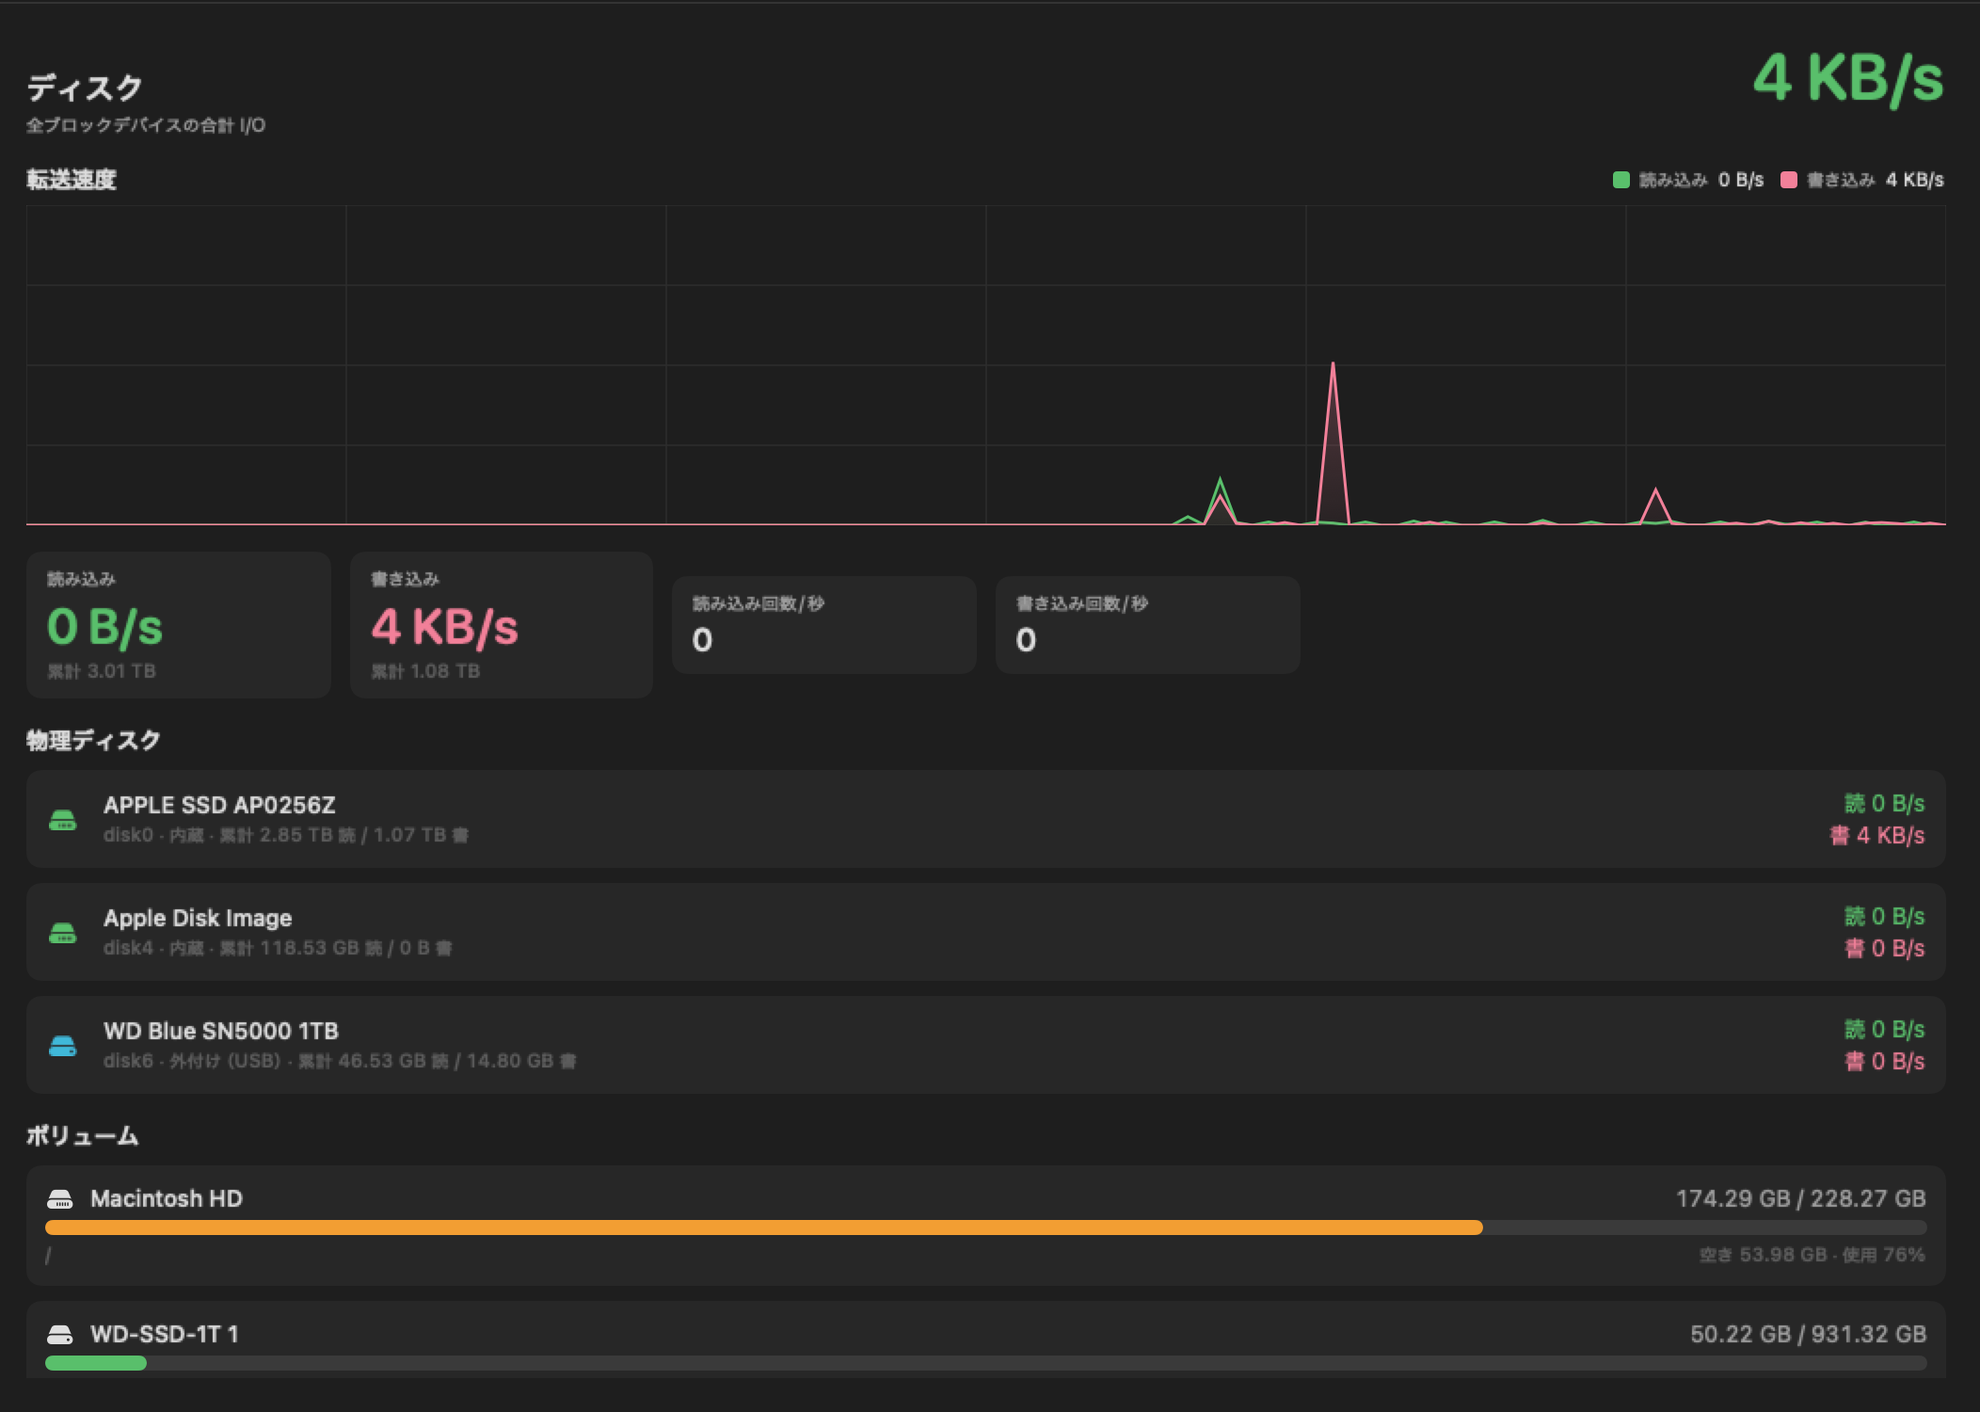
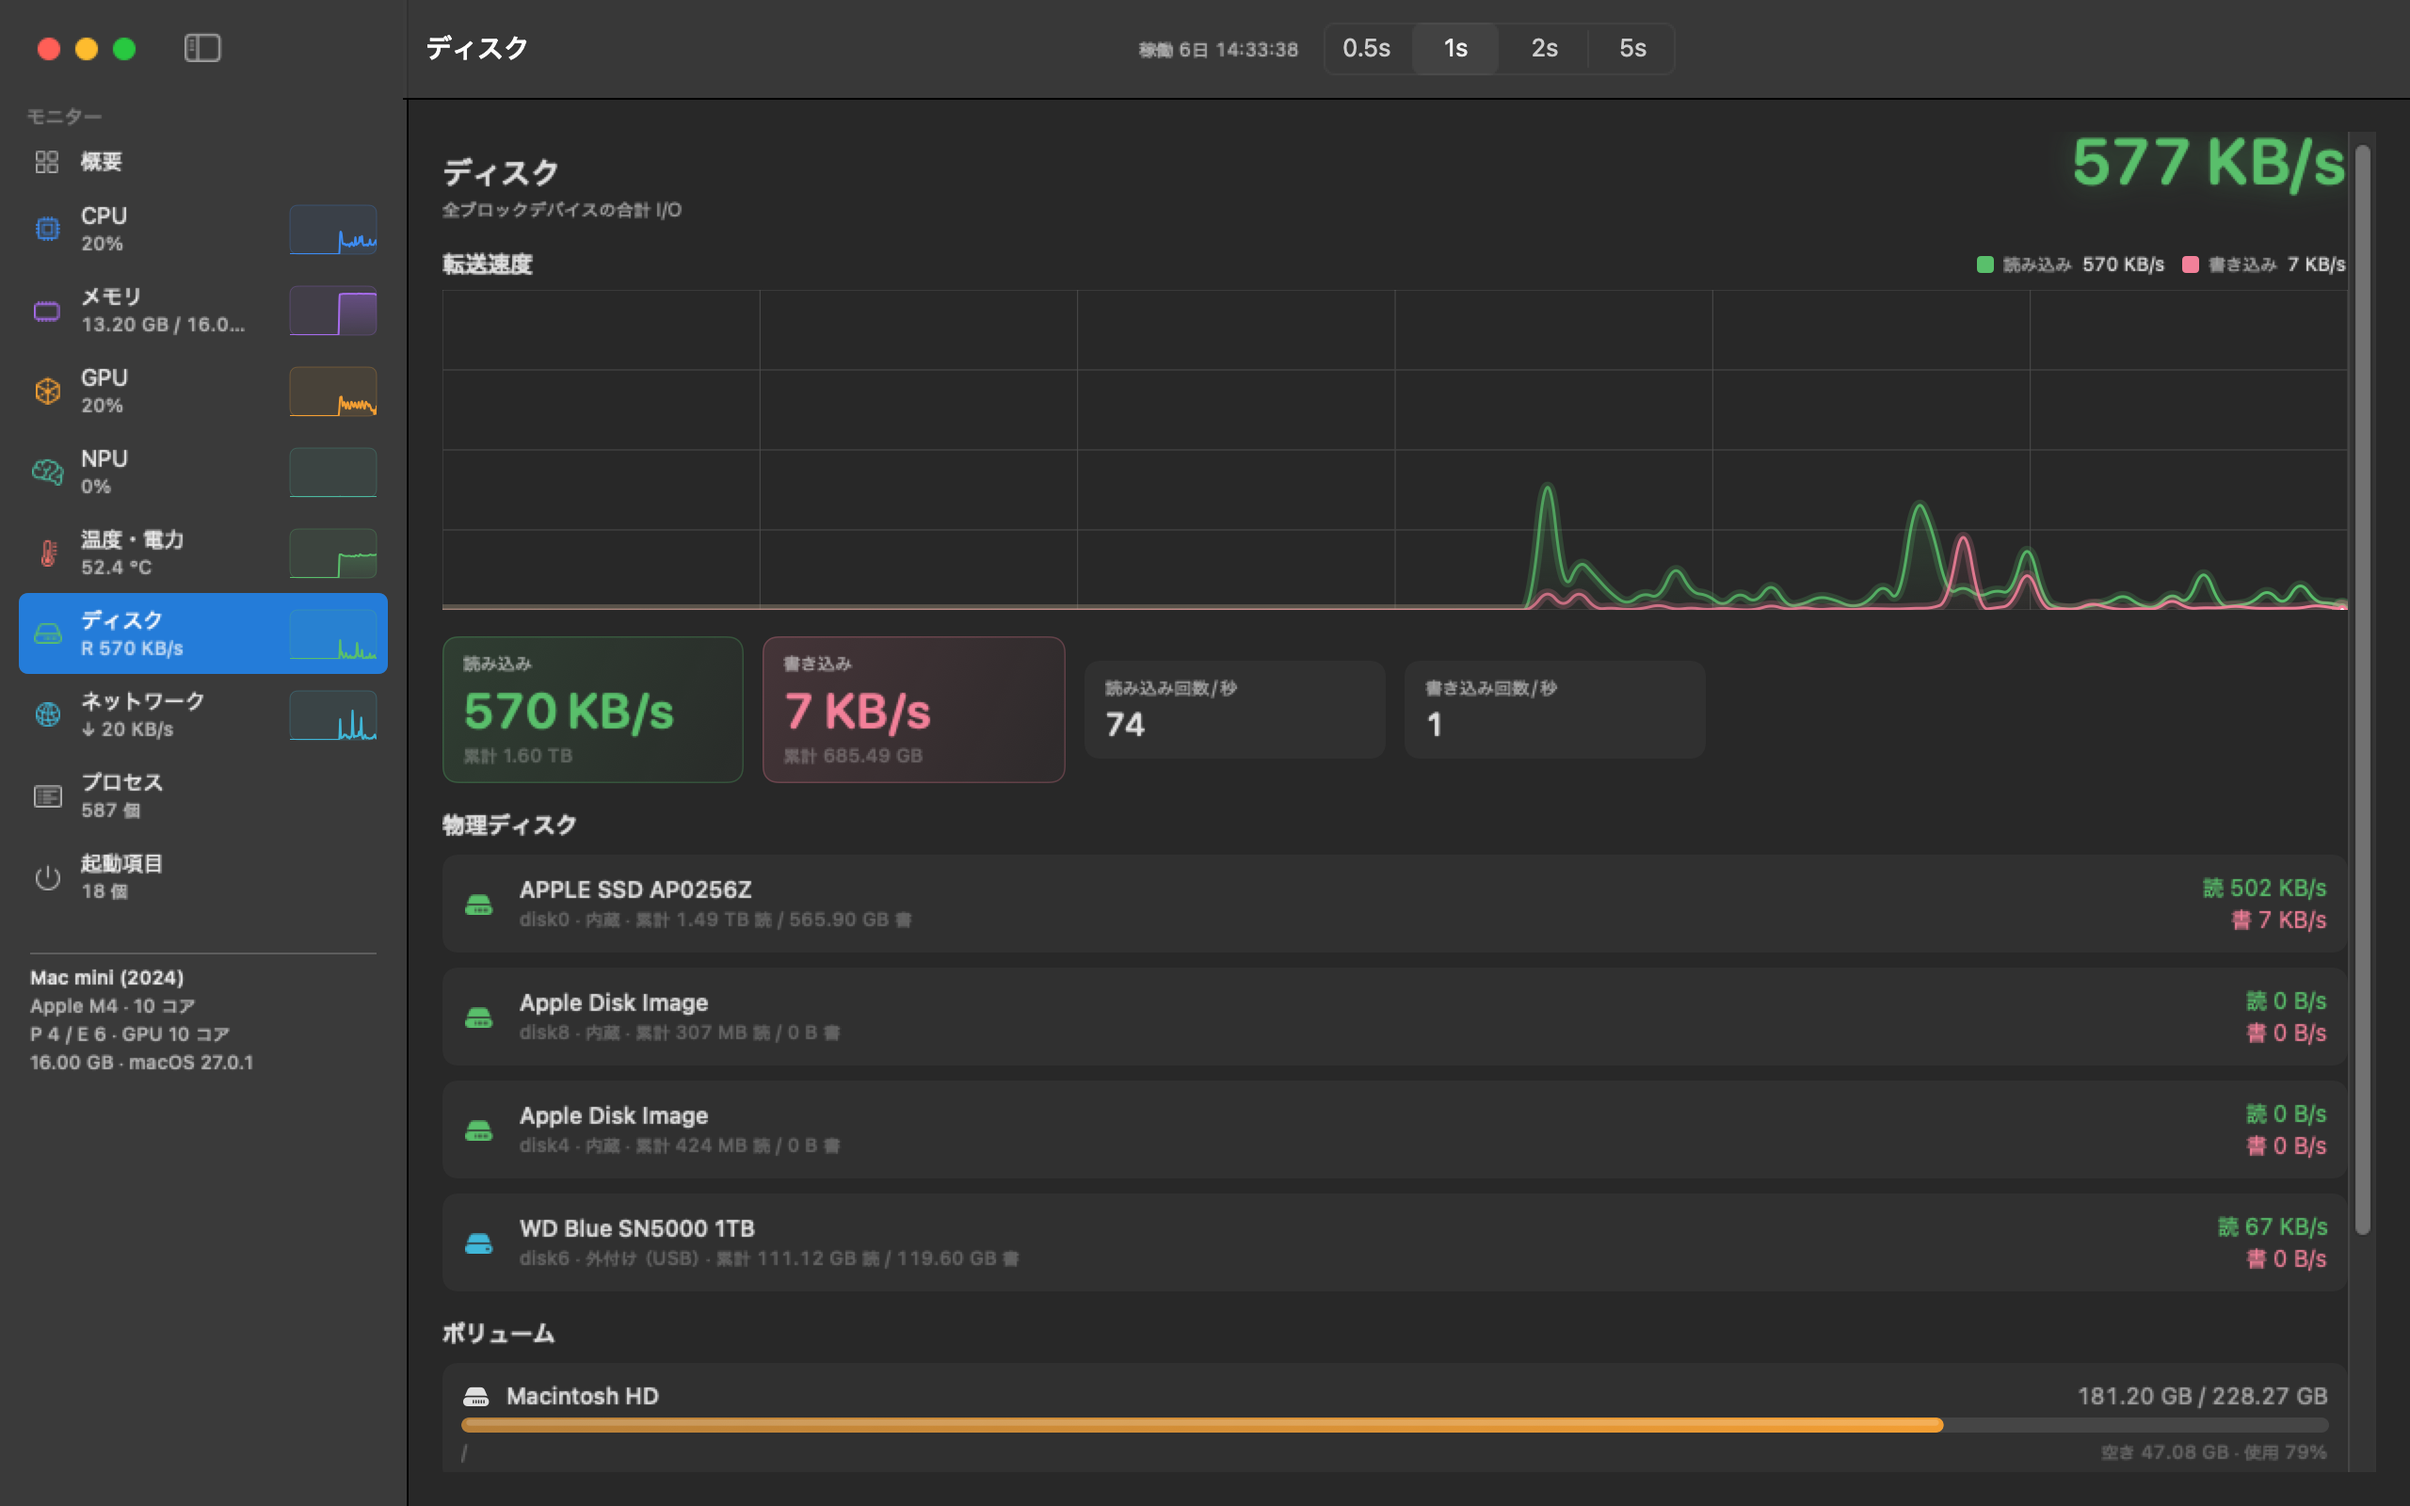
README の画面写真を撮り直す
デバイスのバッテリーのカードと NPU 画面を含む最新の表示に差し替える。
書き出しの 1 枚目は、利用者の設定にかかわらずグラフ表示で撮るようにした。
プロセス・メモリ・起動項目の画面は使っているアプリや個人の環境が写るため差し替えない。

Changed region(s): [[0.0, 0.0, 1.0, 1.0], [0.1854, 0.92, 0.9886, 0.9813]]

diff --git a/Sources/MacTaskManager/ScreenshotExporter.swift b/Sources/MacTaskManager/ScreenshotExporter.swift
@@ -48,6 +48,11 @@ enum ScreenshotExporter {
             await engine.refreshProcessesNow()
             await engine.refreshStartupNow()
 
+            // 利用者がメーター表示を選んでいても、各画面の 1 枚目はグラフ表示で撮る。
+            let defaults = UserDefaults.standard
+            let savedStyle = defaults.string(forKey: OverviewStyle.storageKey)
+            defaults.set(OverviewStyle.chart.rawValue, forKey: OverviewStyle.storageKey)
+
             for panel in Panel.allCases {
                 settings.selection = panel
                 // 画面切り替えと再描画が終わるのを待つ。
@@ -61,23 +66,16 @@ enum ScreenshotExporter {
             }
 
             // 概要のメーター表示。利用者の設定は書き出しのあとで元に戻す。
-            let defaults = UserDefaults.standard
-            let savedStyle = defaults.string(forKey: OverviewStyle.storageKey)
             settings.selection = .overview
             defaults.set(OverviewStyle.meter.rawValue, forKey: OverviewStyle.storageKey)
             // 振り切りの演出が終わるのを待つ。
             try? await Task.sleep(for: .seconds(3))
             _ = capture(window: window,
                         to: directory.appendingPathComponent("overview-meter.png"))
-            if let savedStyle {
-                defaults.set(savedStyle, forKey: OverviewStyle.storageKey)
-            } else {
-                defaults.removeObject(forKey: OverviewStyle.storageKey)
-            }
-
-            // 小さくしたときの表示も 1 枚残す。
+            // 小さくしたときの表示はグラフ表示で 1 枚残す。
             // カードが途中で切れないよう、11 枚が 2 列 6 行で収まる大きさにしている。
             settings.selection = .overview
+            defaults.set(OverviewStyle.chart.rawValue, forKey: OverviewStyle.storageKey)
             window.setContentSize(NSSize(width: 660, height: 760))
             try? await Task.sleep(for: .seconds(2))
             _ = capture(window: window,
